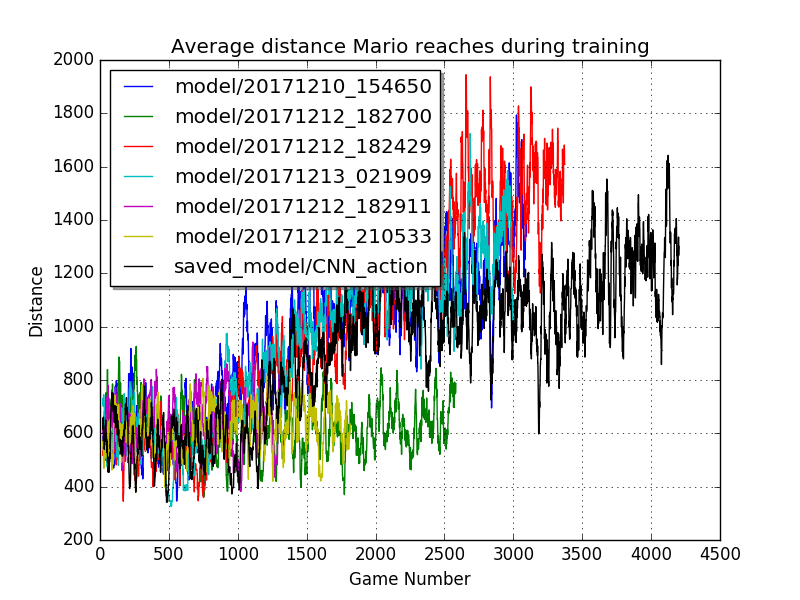
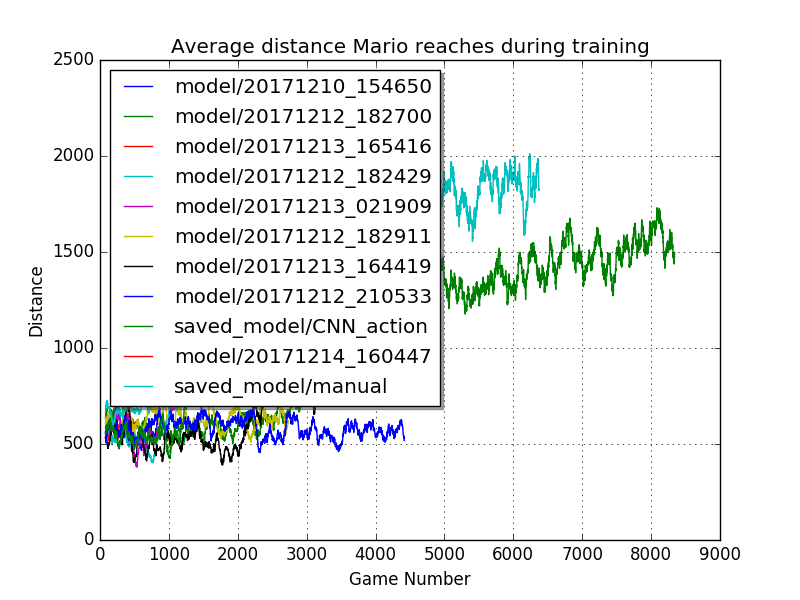
more figs

diff --git a/tools/plot_exps.py b/tools/plot_exps.py
@@ -20,10 +20,19 @@ def plot(options, labels, name, xlim=None):
     fig.savefig('figs/' + name + ".png")
     plt.show()
 
+def plot_exprate_comp(options):
+    labels = {}
+    labels['model/20171213_164419'] = 'Adaptive Exploration Rate'
+    labels['model/20171213_165416'] = 'Fixed Exploration Rate = 0.3'
+
+    plot(options, labels, 'exprate_comp', xlim=None)
+    return options
+
 def plot_reward_comp(options):
     labels = {}
-    labels['model/20171212_182429'] = 'No partial reward'
-    labels['model/20171213_021909'] = 'Partial reward at checkpoints'
+    labels['model/20171214_160447'] = 'distance reward only'
+    labels['model/20171212_182429'] = 'distance reward + death penalty + stuck penalty'
+    labels['model/20171213_021909'] = 'distance reward + death penalty + stuck penalty + ckpt reward'
 
     plot(options, labels, 'reward_comp', xlim=None)
     return options
@@ -44,12 +53,14 @@ def plot_lr_comp(options):
     labels['model/20171212_182700'] = 'lr=1e-3'
     labels['model/20171212_182911'] = 'lr=1e-2'
 
-    plot(options, labels, 'lr_comp', xlim=[0, 2500])
+    plot(options, labels, 'lr_comp')
 
     return options
 
 def plot_arch_comp(options):
     labels = {}
+    # labels['saved_model/manual'] = 'manual nn'
+    labels['model/20171213_164419'] = 'manual nn'
     labels['saved_model/CNN_action'] = '1 [7x7-s3] cnn'
     labels['model/20171212_182429'] = '2 [3x3-s1] cnn'
 
@@ -142,6 +153,29 @@ def set_paths(options):
       #--maxGameIter=3000 \
       #--load --model_dir $MODEL/
 
+    # tucson
+    paths.append('model/20171214_160447')
+    #./xvfb-run-safe -s "-screen 0 1400x900x24" python run.py --player=cnn --train \
+      #--conv_model=1 \
+      #--dist_reward_only \
+      #--maxGameIter=3000 \
+      #--load --model_dir $MODEL/
+
+    # tucson
+    paths.append('model/20171213_164419')
+    #./xvfb-run-safe -s "-screen 0 1400x900x24" python run.py --player=manual --train \
+      #--maxGameIter=3000 \
+      #--load --model_dir $MODEL/
+    
+    # tucson
+    paths.append('model/20171213_165416')
+    #./xvfb-run-safe -s "-screen 0 1400x900x24" python run.py --player=manual --train \
+      #--fix_exprate \
+      #--explorationProb=0.3 \
+      #--maxGameIter=3000 \
+      #--load --model_dir $MODEL/
+
+    paths.append('saved_model/manual')
     options.paths = paths
     return options
 
@@ -157,11 +191,13 @@ def main():
 
     options = set_paths(options)
     options = load_scores(options)
+
     options = plot_all(options)
     options = plot_arch_comp(options)
     options = plot_lr_comp(options)
     options = plot_batch_comp(options)
     options = plot_reward_comp(options)
+    options = plot_exprate_comp(options)
 
 if __name__ == "__main__":
     main()
